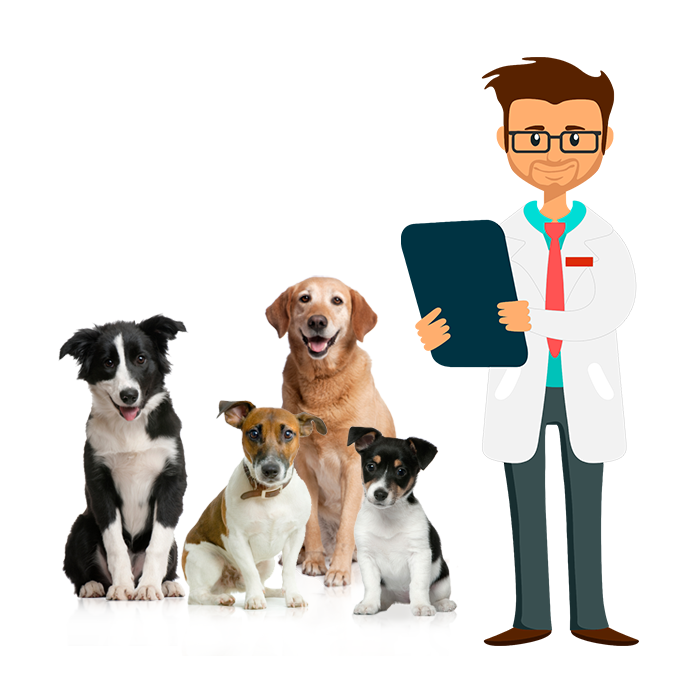
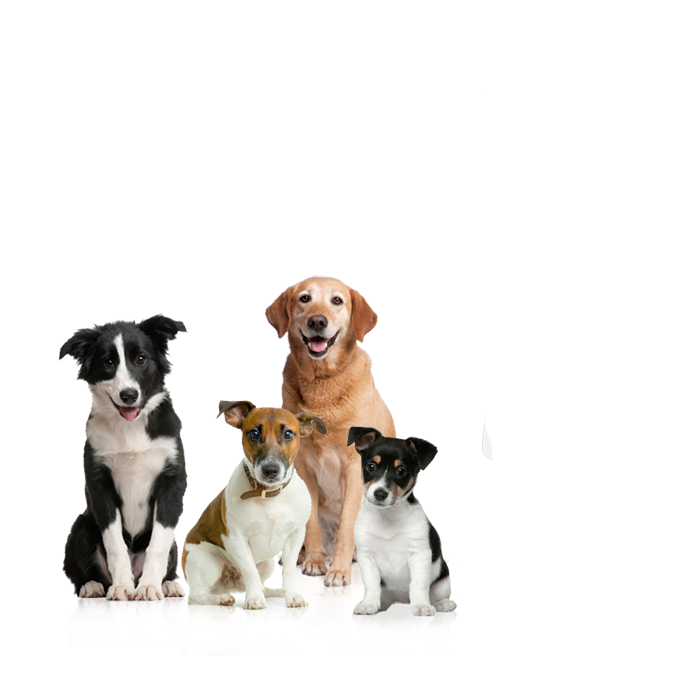
Sumo script publicar y arreglo fotos creo

Changed region(s): [[0.57, 0.06, 0.93, 0.93]]

diff --git a/static/js/scriptPublicarMascota.js b/static/js/scriptPublicarMascota.js
@@ -1,2 +1,24 @@
-/*aca va el codigo para publicar una mascota perdida*/
-/*pronto*/
+document.addEventListener('DOMContentLoaded', function() {
+    const formulario = document.getElementById('formularioMascotaPerdida');
+    
+    formulario.addEventListener('submit', async function(event) {
+        event.preventDefault();
+        
+        const mascotaData = {
+            nombre: document.getElementById('nombreMascota').value,
+            edad: document.getElementById('edadMascota').value,
+            especie: document.getElementById('especie').value,
+            condicion: document.getElementById('condicion').value,
+            descripcion: document.getElementById('descripcion').value,
+            fechaPerdida: document.getElementById('fechaPerdida').value,
+            ubicacion: null //agregar el mapa
+        };
+
+
+        // falta agrear toda la funcionalidad de las apis(agregar los datos a las apis)
+        // manejar tema de la foto
+        // validar todo el formulario
+        // y no se que mas pero falta
+
+    }); 
+}); 
